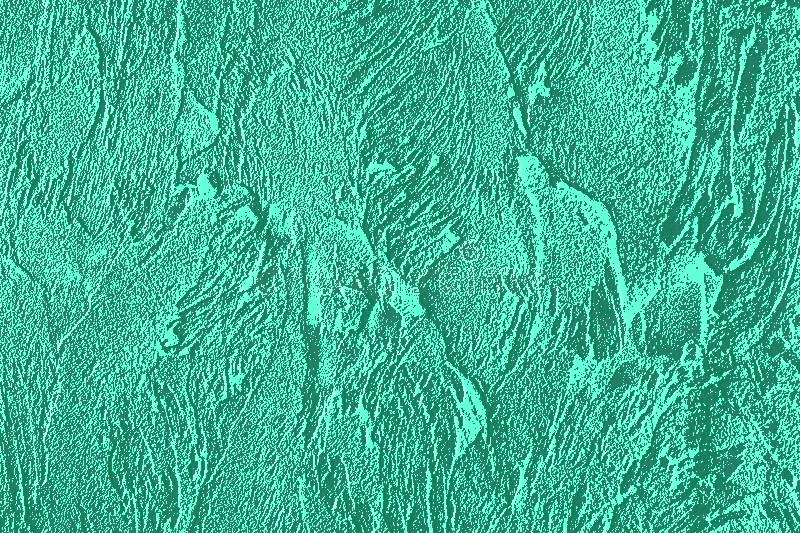
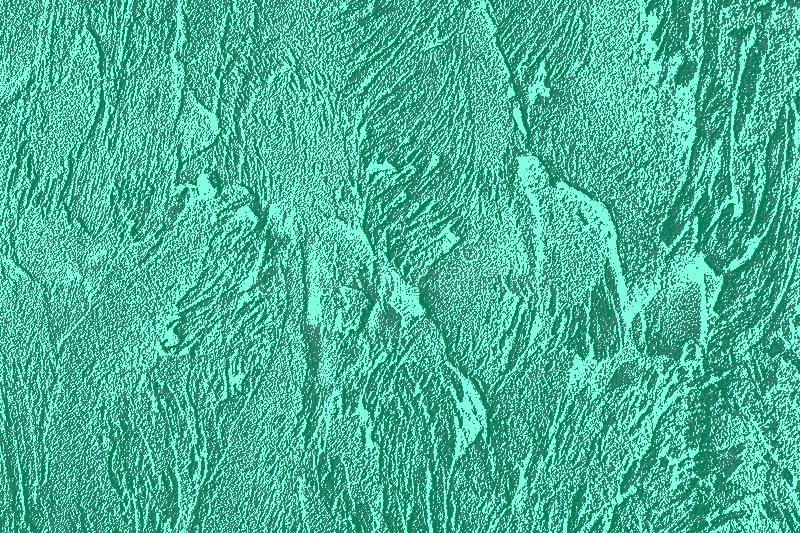
image editing testing

diff --git a/image-processing.py b/image-processing.py
@@ -68,9 +68,11 @@ def nearestValue(v, n): # n is # of segments
     index = roundHalfUp(v / increment)
     return index * increment
 
-urllib.request.urlretrieve('https://thumbs.dreamstime.com/b/mint-colored-low-contrast-concrete-textured-background-roughness-irregularities-trendy-to-your-design-product-color-162725143.jpg', "images\low.jpg")
 
-filename = "images\low.jpg"
+my_url = "https://thedomesticrebel.com/wp-content/uploads/2011/09/040.jpg"
+filename = "images\cupcake.jpg"
+
+urllib.request.urlretrieve(my_url, filename)
 input = Image.open(filename)
 
 pixel_map = input.load()
@@ -86,6 +88,7 @@ for i in range(width):
 
         # contrast using value
         v = nearestValue(v, 2)
+        s = nearestValue(s, 2)
         # print(h, s, v)
 
         # converting HSV(0-360, 0-1, 0-1) -> RGB(0-255, 0-255, 0-255)
